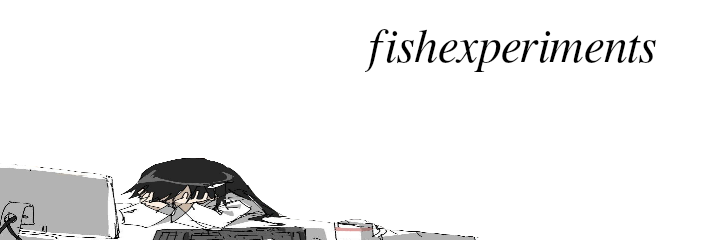
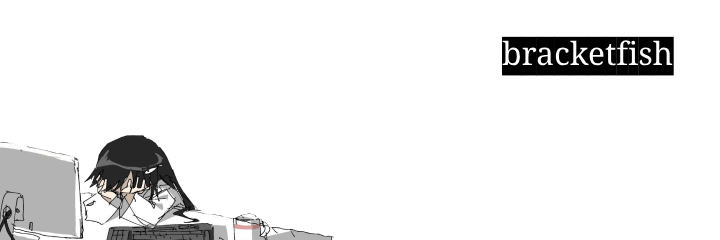
feat: rename project

Changed region(s): [[0.0, 0.5542, 0.6722, 1.0], [0.4889, 0.1167, 0.9472, 0.3208]]

diff --git a/pages/info.html b/pages/info.html
@@ -3,7 +3,7 @@
   <head>
     <meta charset="UTF-8" />
     <meta name="viewport" content="width=device-width, initial-scale=1.0" />
-    <title>fishexperiments</title>
+    <title>bracketfish</title>
     <link rel="icon" href="/img/favicon.png" type="image/png" />
     <link rel="stylesheet" href="/css/style.css" type="text/css" />
   </head>
@@ -20,8 +20,8 @@
       <h1>Helloo</h1>
 
       <p>
-        fishexperiments is an experimental imageboard with one global board.
-        There are no accounts and all posts are anonymous by default.
+        bracketfish is an experimental imageboard with one global board. There
+        are no accounts and all posts are anonymous by default.
       </p>
 
       <p>

diff --git a/src/api/posts.js b/src/api/posts.js
@@ -95,7 +95,7 @@ export default async (request, env) => {
 
           if (post.fileName) {
             const command = new GetObjectCommand({
-              Bucket: "fishexperiments",
+              Bucket: "bracketfish",
               Key: post.fileName,
             });
 
@@ -192,7 +192,7 @@ export default async (request, env) => {
 
         await s3.send(
           new PutObjectCommand({
-            Bucket: "fishexperiments",
+            Bucket: "bracketfish",
             Key: fileName,
             Body: new Uint8Array(await file.arrayBuffer()),
             ContentType: file.type,

diff --git a/components/header.html b/components/header.html
@@ -2,7 +2,7 @@
   <span>
     [ <a href="/">index</a> ] [ <a href="/info">info</a> /
     <a href="/rules">rules</a> ] [
-    <a target="_blank" href="https://github.com/0x10u64/fishexperiments">
+    <a target="_blank" href="https://github.com/0x10u64/bracketfish">
       github</a
     >
     / <a target="_blank" href="https://x.com/0x10u64">twitter</a>

diff --git a/pages/rules.html b/pages/rules.html
@@ -3,7 +3,7 @@
   <head>
     <meta charset="UTF-8" />
     <meta name="viewport" content="width=device-width, initial-scale=1.0" />
-    <title>fishexperiments Rules</title>
+    <title>bracketfish</title>
     <link rel="icon" href="/img/favicon.png" type="image/png" />
     <link rel="stylesheet" href="/css/style.css" type="text/css" />
   </head>

diff --git a/pages/404.html b/pages/404.html
@@ -3,7 +3,7 @@
   <head>
     <meta charset="UTF-8" />
     <meta name="viewport" content="width=device-width, initial-scale=1.0" />
-    <title>fishexperiments</title>
+    <title>bracketfish</title>
     <link rel="icon" href="/img/favicon.png" type="image/png" />
     <link rel="stylesheet" href="/css/style.css" type="text/css" />
   </head>

diff --git a/pages/index.html b/pages/index.html
@@ -3,7 +3,7 @@
   <head>
     <meta charset="UTF-8" />
     <meta name="viewport" content="width=device-width, initial-scale=1.0" />
-    <title>fishexperiments</title>
+    <title>bracketfish</title>
     <link rel="icon" href="/img/favicon.png" type="image/png" />
     <link rel="stylesheet" href="/css/style.css" type="text/css" />
   </head>
